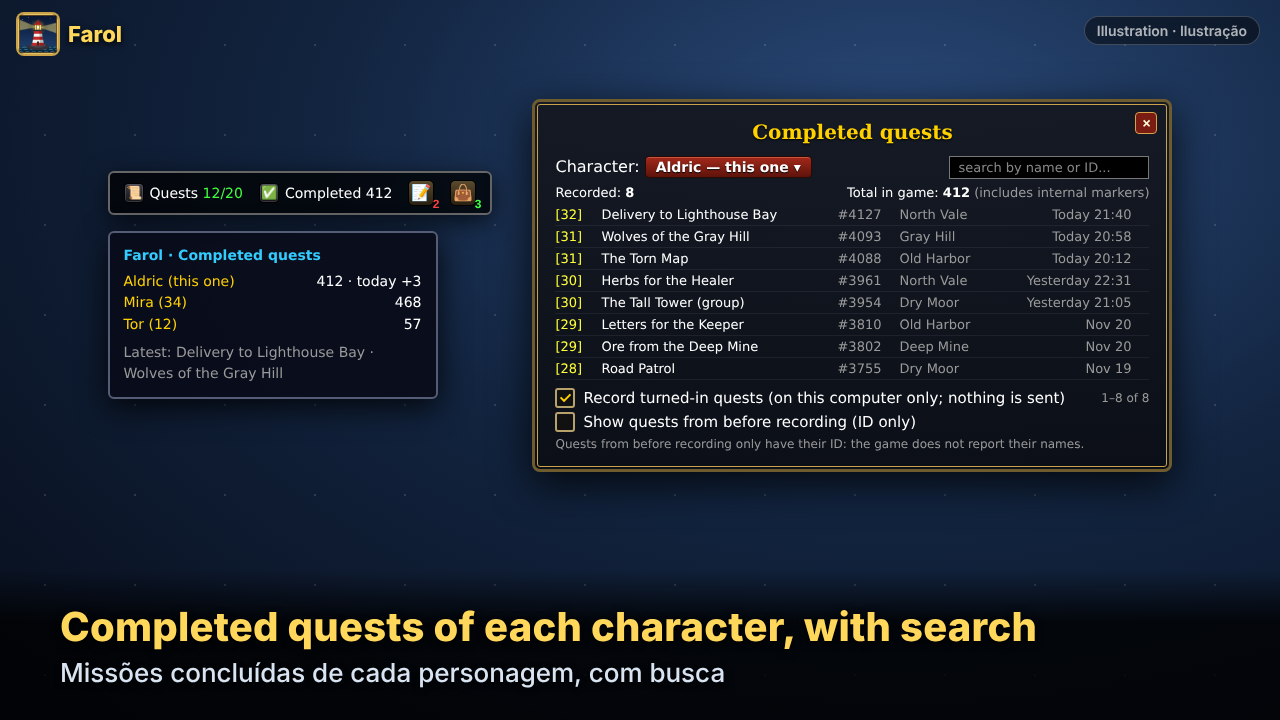
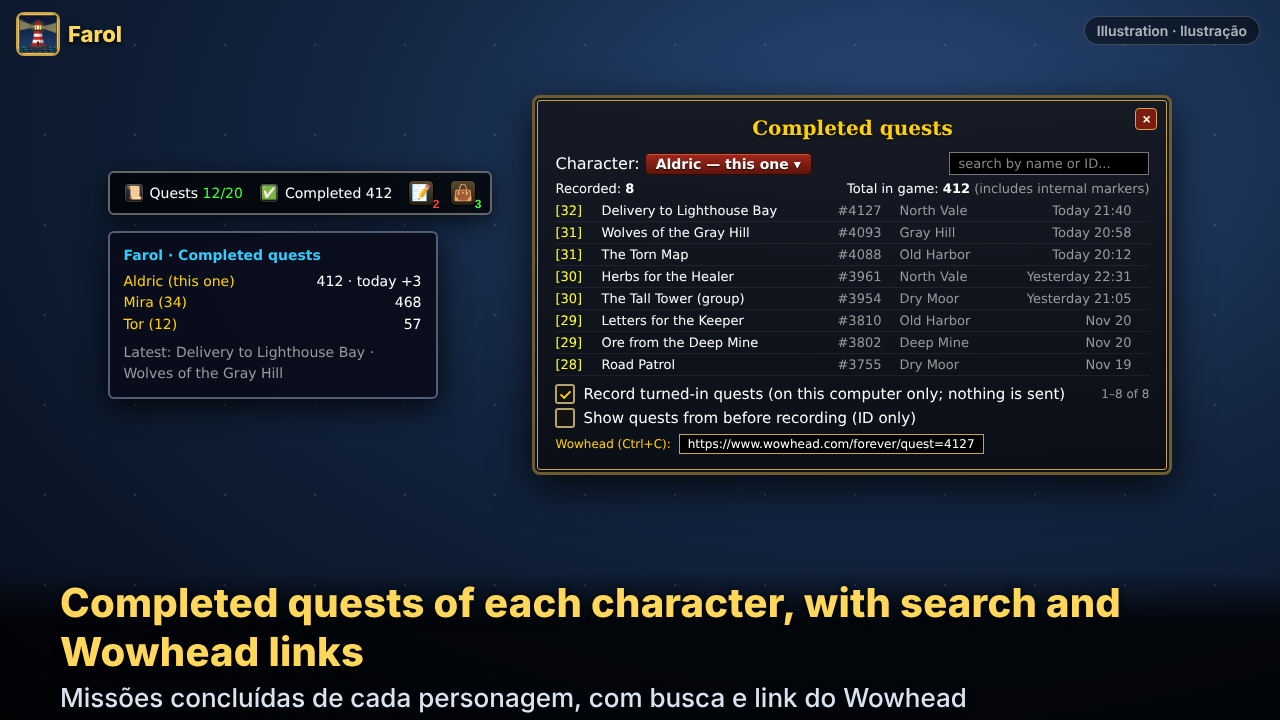
3.16.0: Wowhead link for completed quests
- Click a quest in the Completed quests window to get its Wowhead link (WoW Forever section):
  wowhead.com/forever/pt/quest=ID/ (Portuguese) or wowhead.com/forever/quest=ID (English), selected for Ctrl+C
- Read-only box, built only from a valid integer quest ID; Farol does not access the internet
- Tests, adversarial script, news line, docs and image 12

Claude-Session: https://claude.ai/code/session_01BGNd8jLBZJw5iNs8DwdX47

Changed region(s): [[0.4062, 0.1222, 0.9375, 0.6722], [0.0312, 0.7944, 0.875, 1.0]]

diff --git a/assets/curseforge/make_pages.py b/assets/curseforge/make_pages.py
@@ -335,7 +335,8 @@ qwin = ('<div class="win" style="width:640px"><div class="x">×</div><div class=
     + qrows +
     '<div style="display:flex;justify-content:space-between;align-items:center;margin-top:8px"><span class="ck" style="margin:0"><span class="box">✓</span>Record turned-in quests (on this computer only; nothing is sent)</span><span class="dim" style="font-size:12px">1–8 of 8</span></div>'
     '<div class="ck" style="margin-top:4px"><span class="box"></span>Show quests from before recording (ID only)</div>'
-    '<div class="dim" style="font-size:12px;margin-top:4px">Quests from before recording only have their ID: the game does not report their names.</div></div>')
+    '<div style="display:flex;align-items:center;gap:8px;margin-top:6px;font-size:12px"><span class="k" style="color:#ffd100;width:auto">Wowhead (Ctrl+C):</span>'
+    '<span style="background:#000;border:1px solid #c9a24a;padding:2px 8px;color:#fff">https://www.wowhead.com/forever/quest=4127</span></div></div>')
 QD_BAR = hbar([("📜",'Quests <span class="g">12/20</span>'),("✅",'Completed 412')], "font-size:14px")
 qtip = ('<div class="tip" style="width:330px"><div style="color:#33ccff;font-weight:bold;margin-bottom:4px">Farol · Completed quests</div>'
     '<div class="row"><span class="k">Aldric (this one)</span><span>412 · today +3</span></div>'
@@ -344,5 +345,5 @@ qtip = ('<div class="tip" style="width:330px"><div style="color:#33ccff;font-wei
     '<div class="dim" style="margin-top:6px">Latest: Delivery to Lighthouse Bay · Wolves of the Gray Hill</div></div>')
 QD_CSS = """.qrow{display:grid;grid-template-columns:40px 230px 56px 120px 106px;gap:6px;font-size:13px;padding:3px 0;border-bottom:1px solid #ffffff10}"""
 page("farol-12-completed-quests", f'<div style="display:flex;flex-direction:column;gap:16px;align-items:flex-start">{QD_BAR}{qtip}</div>{qwin}',
-     "Completed quests of each character, with search", "Missões concluídas de cada personagem, com busca", QD_CSS)
+     "Completed quests of each character, with search and Wowhead links", "Missões concluídas de cada personagem, com busca e link do Wowhead", QD_CSS)
 print("pages ok")

diff --git a/assets/curseforge-description.md b/assets/curseforge-description.md
@@ -19,7 +19,7 @@ FPS · Latency · Memory · Coordinates · Zone · Speed · **Hearthstone: where
 - **Right-click** the bar (or `/farol menu`): a **tabbed menu** — Bar (items in groups), Warnings, Tools, General — to tick the items you want, and **choose their order** with [▲]/[▼] arrows. **Presets** (Basic, Leveling, Gold & farm, Dungeons) set up the bar in one click (with Undo); a **gear** next to an item opens its settings; a strip explains the item under the mouse.
 - **Up to 3 bars**, each with its own items, position, appearance and order (menu → Bar 2 / Bar 3 → Show).
 - **Profiles:** the same bars on every character, or **this character only** — and **Copy from...** another character.
-- **Completed quests of each character:** a list of the quests each of your characters turned in, with their quest IDs and a search by name or ID (recording starts off) and the total the game reports; stays on your computer.
+- **Completed quests of each character:** a list of the quests each of your characters turned in, with their quest IDs, a search by name or ID and a click-to-copy Wowhead link (recording starts off) and the total the game reports; stays on your computer.
 - **Daily & weekly tasks:** your own checklist (`/farol task`) that resets on its own at the daily/weekly reset (removed one by mistake? Undo).
 - **Minimap button:** click for the menu, right-click to hide/show every bar at once (no other addon needed).
 - **Hover** an item for its own short tooltip (gold, durability, resets…); hold **Shift** to see everything: home/world latency, subzone, every damaged item, exact XP, local *and* server time, and more.
@@ -77,7 +77,7 @@ FPS · Latência · Memória · Coordenadas · Zona · Velocidade · **Pedra de 
 - **Clique direito** na barra (ou `/farol menu`): um **menu em abas** — Barra (itens em grupos), Avisos, Ferramentas, Geral — para marcar os itens que quiser e **escolher a ordem** com as setas [▲]/[▼]. **Pacotes prontos** (Básico, Upando, Ouro e farm, Masmorras) montam a barra com um clique (com Desfazer); a **engrenagem** ao lado de um item abre a configuração dele; uma faixa explica o item sob o mouse.
 - **Até 3 barras**, cada uma com itens, posição, aparência e ordem próprios (menu → Barra 2 / Barra 3 → Mostrar).
 - **Perfis:** as mesmas barras em todos os personagens, ou **só deste personagem** — e **Copiar de...** outro personagem.
-- **Missões concluídas de cada personagem:** lista das missões que cada personagem seu entregou, com o ID de cada uma e busca pelo nome ou ID (o registro vem desligado) e o total que o jogo informa; fica só no seu computador.
+- **Missões concluídas de cada personagem:** lista das missões que cada personagem seu entregou, com o ID de cada uma, busca pelo nome ou ID e o link do Wowhead para copiar com um clique (o registro vem desligado) e o total que o jogo informa; fica só no seu computador.
 - **Tarefas diárias e semanais:** sua lista (`/farol tarefa`) que zera sozinha no reset diário/semanal (apagou sem querer? Desfazer).
 - **Botão no minimapa:** clique para o menu, clique direito para esconder/mostrar todas as barras (não precisa de outro addon).
 - **Passe o mouse** num item para ver um tooltip curto só dele (ouro, durabilidade, resets…); segure **Shift** para ver tudo: latência local/mundo, subzona, cada peça danificada, XP exato, hora local *e* do servidor, e mais.

diff --git a/README.pt-BR.md b/README.pt-BR.md
@@ -338,7 +338,9 @@ compartilha missões, e não abre categorias fechadas do diário. `/farol aviso 
 A janela **Missões concluídas** (Menu > Ferramentas, ou `/farol concluidas`) mostra as missões que cada um dos **seus**
 personagens entregou: `[32] Entrega na Baía do Farol — #4127 — Vale Norte — Hoje 21:40`, da mais nova para a mais
 antiga, com **busca pelo nome ou pelo ID** e rolagem com a roda do mouse. O **ID** (`#4127`) é o número único que o jogo
-dá a cada missão, útil para procurar a missão em guias e sites. No alto, escolha o personagem (só os seus, do mesmo reino).
+dá a cada missão. **Clique numa missão** para ver o link dela no Wowhead, na seção do WoW Forever
+(`https://www.wowhead.com/forever/pt/quest=ID/`), já selecionado para copiar com Ctrl+C e colar no navegador. Vale
+também para as missões de antes do registro, que só têm o ID. O Farol não acessa a internet: só monta o endereço. No alto, escolha o personagem (só os seus, do mesmo reino).
 
 - **O registro vem desligado.** Marque **"Registrar missões entregues"** na janela (ou `/farol concluidas registrar on`)
   e, a partir daí, cada missão entregue é guardada com nome, nível, zona e data (até 2.000 por personagem, as mais

diff --git a/README.md b/README.md
@@ -333,7 +333,10 @@ abandons or shares quests, and never opens collapsed categories. `/farol warn st
 The **Completed quests** window (Menu > Tools, or `/farol completed`) shows the quests each of **your** characters has
 turned in: `[32] Delivery to Lighthouse Bay — #4127 — North Vale — Today 21:40`, newest first, with a **search by name
 or ID** and mouse wheel scrolling. The **ID** (`#4127`) is the unique number the game gives each quest, handy to look the
-quest up in guides and websites. At the top, pick the character (only yours, on the same realm).
+quest up. **Click a quest** to see its Wowhead link in the WoW Forever section
+(`https://www.wowhead.com/forever/quest=ID`), already selected so you can copy it with Ctrl+C and paste it in your
+browser. It also works for quests from before recording, which only have their ID. Farol does not access the internet:
+it only builds the address. At the top, pick the character (only yours, on the same realm).
 
 - **Recording starts off.** Tick **"Record turned-in quests"** in the window (or `/farol completed record on`) and from
   then on each quest you turn in is saved with name, level, zone and date (up to 2,000 per character, the most recent).

diff --git a/CHANGELOG.md b/CHANGELOG.md
@@ -2,6 +2,13 @@
 
 All notable changes to Farol. Versions follow the `## Version:` line of the `.toc` files.
 
+## 3.16.0 — Wowhead link for completed quests
+- Completed quests window: click a quest (recorded or from before recording) to get its **Wowhead link** in the WoW
+  Forever section (`wowhead.com/forever/pt/quest=ID/` in Portuguese, `wowhead.com/forever/quest=ID` in English),
+  already selected to copy with Ctrl+C. Read-only box; the address is built only from a valid quest ID.
+- Farol still does not access the internet: it only shows the address for you to copy.
+- Tests for the link (clicks, read-only box, invalid IDs, English) and the adversarial script.
+
 ## 3.15.1 — Characters on WoW Forever (no realm, name + surname)
 - Fixed: WoW Forever returns an empty realm, so Farol could not identify the character and the completed quests list,
   the gold/rested XP of your characters, saved instances of alts and per-character profiles stayed empty. A fixed

diff --git a/CLAUDE.md b/CLAUDE.md
@@ -114,6 +114,8 @@ personalizável, alarmes, janela de saques e avisos. Publicado no CurseForge: <h
   `questRecord` desligado (regra 8); o total ao vivo aparece na barra mesmo assim (só leitura). 3.15: com o registro
   ligado, `Completed.ReadIDs` guarda os IDs concluídos em `completed[...].a` (crescente, sem repetir, máx. 15000, os
   maiores) a cada login; a opção `questShowOld` (desligada) mostra na janela os que não estão no registro, só pelo ID.
+  3.16: clicar numa linha mostra o link do Wowhead (`Completed.WowheadURL`: `wowhead.com/forever/pt/quest=ID/` ou
+  `/forever/quest=ID` em inglês, sem barra no fim; só de ID inteiro válido) numa caixa só de leitura para Ctrl+C; o addon não acessa a internet.
 - **Nomes genéricos** em tudo que o jogador vê (addon, READMEs, CurseForge, imagens, vídeos): nada de personagens,
   lugares ou itens da Blizzard. Um teste do `test_toc.lua` procura uma lista desses nomes; ao achar outro, acrescente.
 
